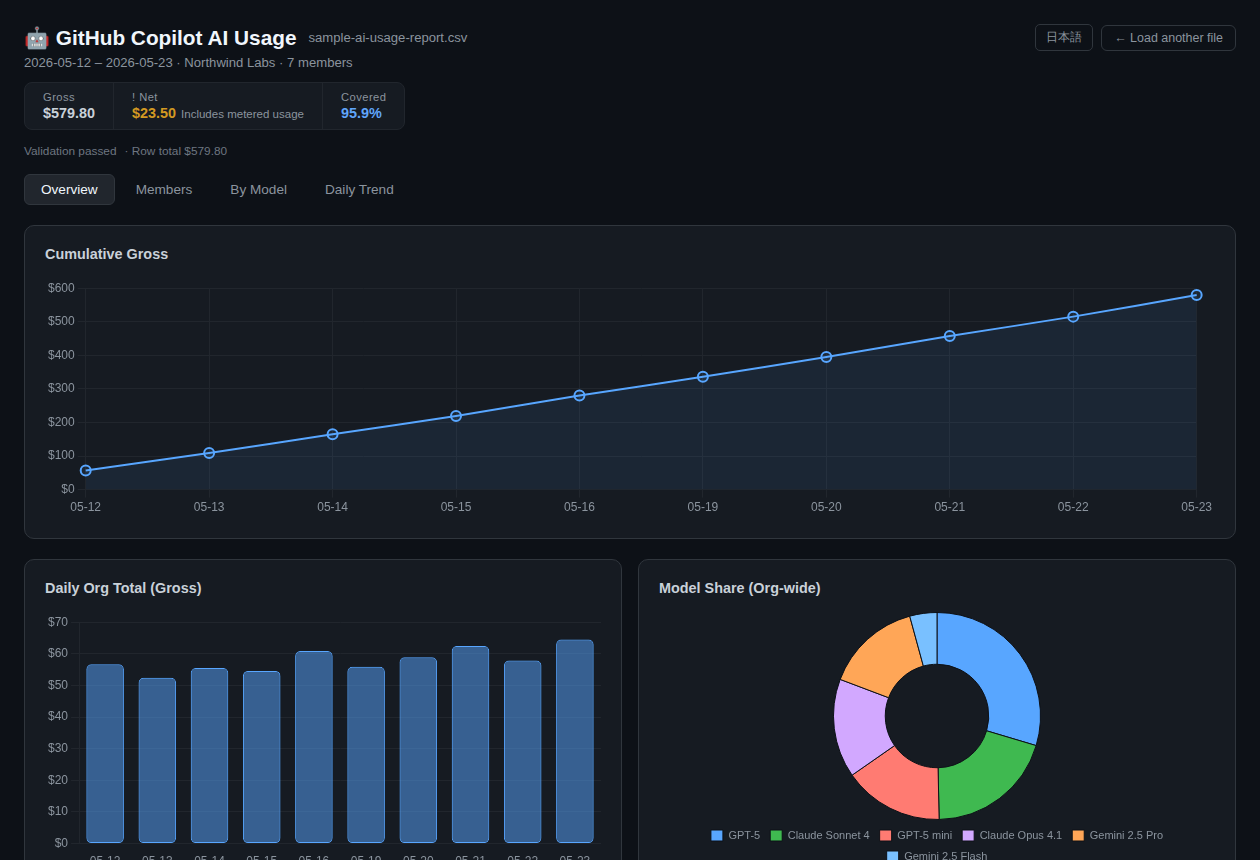
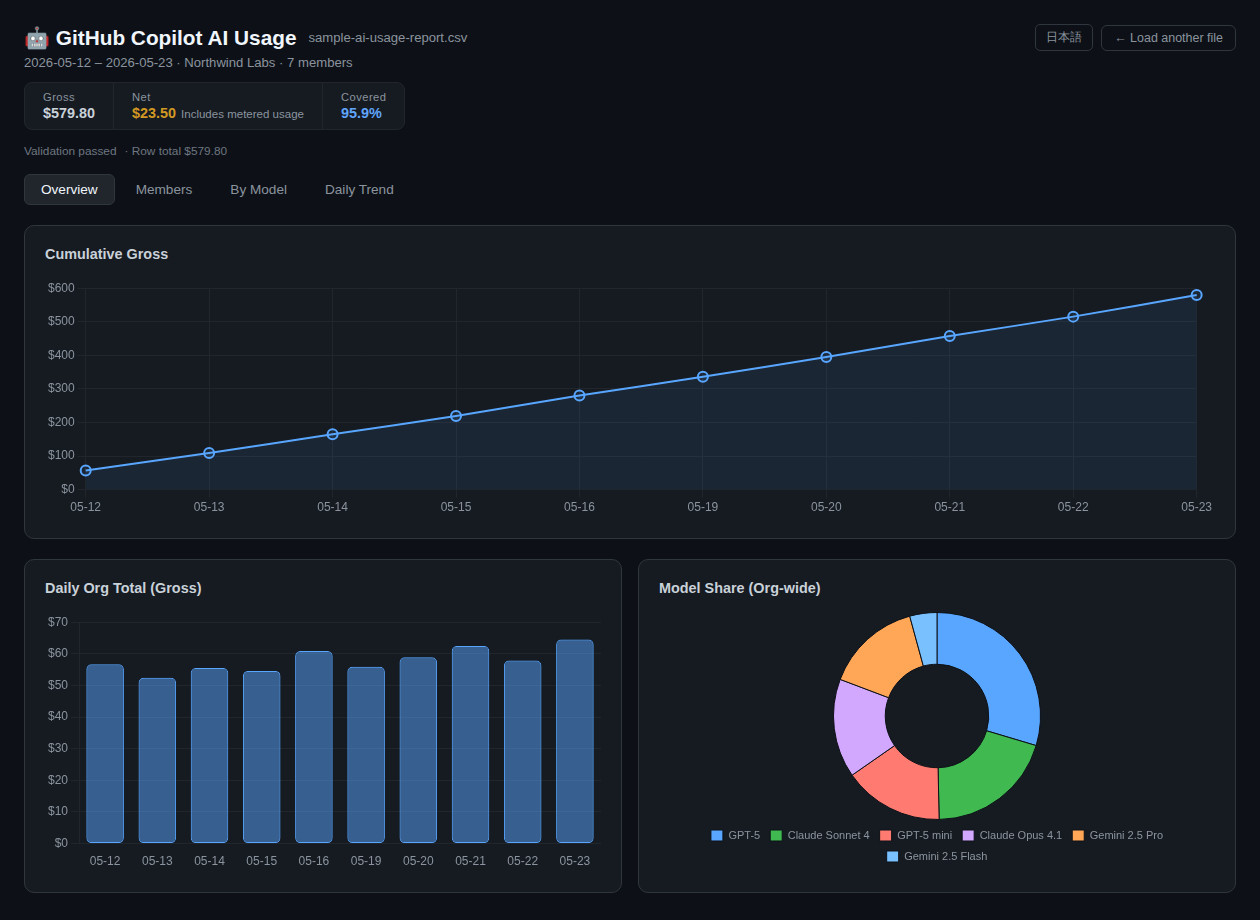
refactor: remove redundant ! from Net badge and regenerate screenshot

diff --git a/index.html b/index.html
@@ -531,7 +531,6 @@ function renderCostBadges() {
   const { grand_list, grand_net, grand_disc } = DATA;
   const coverPct = grand_list > 0 ? (grand_disc / grand_list * 100).toFixed(1) : '0.0';
   const hasMetered = grand_net > 0.001;
-  const netIcon  = hasMetered ? '!' : '';
   const netColor = hasMetered ? '#d29922' : '#3fb950';
   const netTip   = hasMetered ? t('tipBadgeNetX') : t('tipBadgeNet0');
   const netSub   = hasMetered ? t('meteredLabel') : t('coveredLabel');
@@ -542,7 +541,7 @@ function renderCostBadges() {
         <span class="cost-stat-value" style="color:#c9d1d9">$${grand_list.toFixed(2)}</span>
       </div>
       <div class="cost-stat" title="${netTip}">
-        <span class="cost-stat-label">${netIcon} ${t('badgeNet')}</span>
+        <span class="cost-stat-label">${t('badgeNet')}</span>
         <span class="cost-stat-value" style="color:${netColor}">$${grand_net.toFixed(2)} <span class="cost-stat-sub">${netSub}</span></span>
       </div>
       <div class="cost-stat" title="${t('tipBadgeCover')}">

diff --git a/README.md b/README.md
@@ -7,7 +7,7 @@ CSV data is processed in your browser and is not uploaded.
 
 ![assets/readme-overview.png](assets/readme-overview.png)
 
-**Use in browser:** https://daichiueura.github.io/copilot-ai-usage-viewer/
+**Use in browser:** https://daichiueura.github.io/copilot-ai-usage-viewer/ ([Demo](https://daichiueura.github.io/copilot-ai-usage-viewer/?csv=assets/sample-ai-usage-report.csv))
 
 ## Usage
 